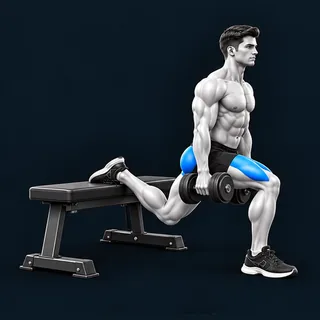
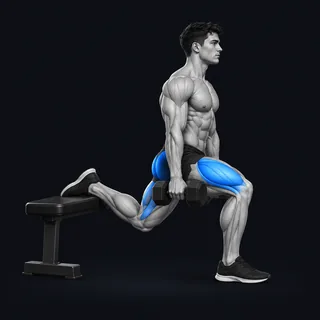
feat(exercise): add approved Bulgarian split squat and iso-lateral incline press thumbnails

Changed region(s): [[0.0625, 0.0625, 0.9375, 0.9062]]

diff --git a/src/lib/domain/exercise-images.test.ts b/src/lib/domain/exercise-images.test.ts
@@ -87,6 +87,37 @@ describe("DY row machine: planned gym exercise image", () => {
   });
 });
 
+describe("user-owned scheduled exercise thumbnails (2026-10-10)", () => {
+  const ownCatalog = [
+    { id: "e6a6598d-8597-4d22-8d81-ef2265e0c168", name: "불가리안 스플릿 스쿼트", is_custom: true },
+    { id: "90033d48-4db9-40bd-bd3f-3b8e1cbb55d1", name: "아이소 레터럴 인클라인 프레스머신", is_custom: true },
+  ] as const;
+
+  it("uses exact own custom catalog IDs, never the public seed exercise name map", () => {
+    for (const item of ownCatalog) {
+      expect(SEED_NAME_BY_ID.has(item.id), item.id).toBe(false);
+      expect(EXERCISE_IMAGES[item.id]).toEqual({
+        name: "",
+        file: item.id,
+        source: "gnd",
+        origin: "gnd-custom-image-2026-10-10",
+        custom: true,
+      });
+      expect(existsSync(publicPath(`exercise-images/${item.id}.webp`))).toBe(true);
+      expect(exerciseImageSrc(item.id)).toBe(`/exercise-images/${item.id}.webp`);
+      expect(imageIdForAddedExercise({ name: item.name, isCustom: true }, ownCatalog)).toBe(item.id);
+      expect(imageIdForAddedExercise({ name: item.name, isCustom: true })).toBeUndefined();
+    }
+  });
+
+  it("prevents a different same-name custom exercise ID from leaking these images", () => {
+    const otherCatalog = ownCatalog.map((item) => ({ ...item, id: "00000000-0000-0000-0000-000000000000" }));
+    for (const item of ownCatalog) {
+      expect(imageIdForAddedExercise({ name: item.name, isCustom: true }, otherCatalog)).toBeUndefined();
+    }
+  });
+});
+
 describe("user-created resistance band exercise images", () => {
   const ids = ["4f47934b-e7a8-4618-8d24-085ebc297dde","bef0d91e-ea01-4817-b00e-e5978a5bdbe8","e5835092-9ce2-4cd6-ae4e-e71cde1d7583","3ac56225-c8be-49bb-9997-5360e651882d","aaf1b8e3-e12e-4d6f-846c-c1fd2cec768d"] as const;
 

diff --git a/scripts/build-exercise-images.py b/scripts/build-exercise-images.py
@@ -105,6 +105,16 @@ MANUAL_CUSTOM_IMAGE_IDS = [
 ]
 
 
+# User-owned catalog images approved in the GND UI on 2026-10-10.
+# Skip older Codex sources for these UUIDs so running this script cannot
+# restore the obsolete Bulgarian split squat or delete the new incline press.
+# SHA256 pins the exact app-ready WebP asset; user-defined names stay private.
+MANUAL_CUSTOM_IMAGE_OVERRIDES = {
[2 lines of base64/hex data omitted]
+}
+
+
 # Manually approved app thumbnail for the catalog's machine-specific DY row.
 # Preserve the checked-in source file when regenerating the UUID image map.
 MANUAL_SEED_IMAGES = {
@@ -198,6 +208,9 @@ def main():
             if not ok or r.get("final_qa") == "FAIL" or not r.get("file"):
                 continue
             uid = r["exercise_id"]
+            if uid in MANUAL_CUSTOM_IMAGE_OVERRIDES:
+                print(f"Superseded custom image skipped: {uid}")
+                continue
             custom = uid not in name_by_id
             if not custom and name_by_id[uid] != r["name"]:
                 raise SystemExit(f"{folder}: ID·이름이 매니페스트와 다르다: {uid} {r['name']}")
@@ -247,6 +260,28 @@ def main():
             "file": uid,
             "source": "gnd",
             "origin": "gnd-band-custom-2026-10-09",
+            "custom": True,
+        }
+
+    # 3-b) User-owned custom thumbnails; newer approved images override old sources.
+    # Never put a user-defined exercise name into the client-visible mapping.
+    for uid, expected_hash in MANUAL_CUSTOM_IMAGE_OVERRIDES.items():
+        if uid in name_by_id:
+            raise SystemExit(f"Custom override ID unexpectedly belongs to a seed: {uid}")
+        path = os.path.join(OUT, f"{uid}.webp")
+        if not os.path.isfile(path):
+            raise SystemExit(f"Approved custom image missing: {uid}")
+        with Image.open(path) as img:
+            if img.format != "WEBP" or img.size != (SIZE, SIZE):
+                raise SystemExit(f"Wrong custom image format/dimensions: {uid}")
+        actual_hash = hashlib.sha256(open(path, "rb").read()).hexdigest()
+        if actual_hash != expected_hash:
+            raise SystemExit(f"Approved custom image SHA256 mismatch: {uid}")
+        data[uid] = {
+            "name": "",
+            "file": uid,
+            "source": "gnd",
+            "origin": "gnd-custom-image-2026-10-10",
             "custom": True,
         }
 
